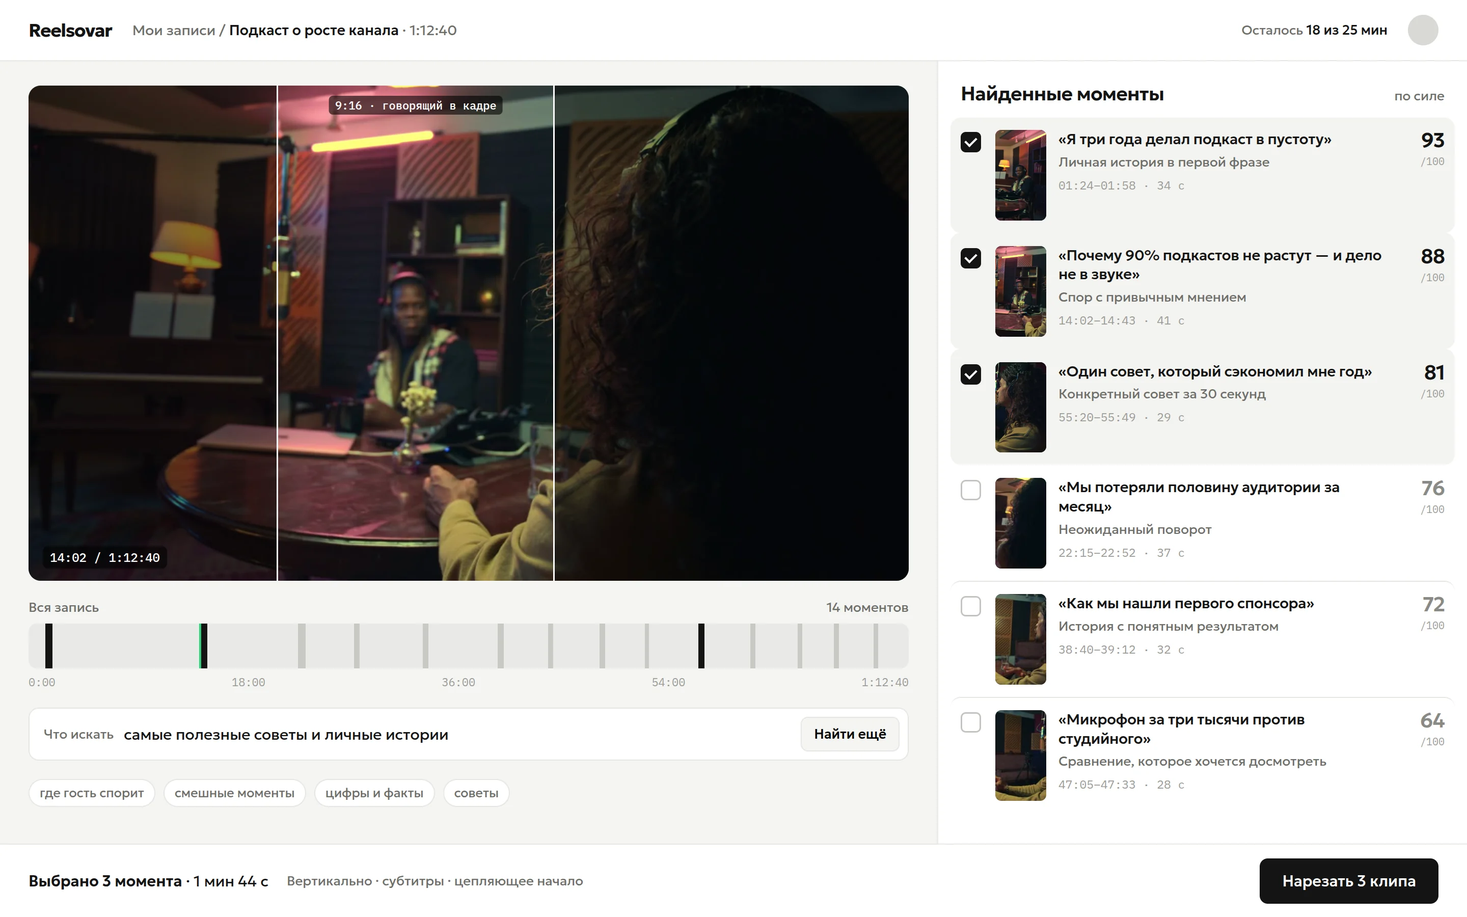
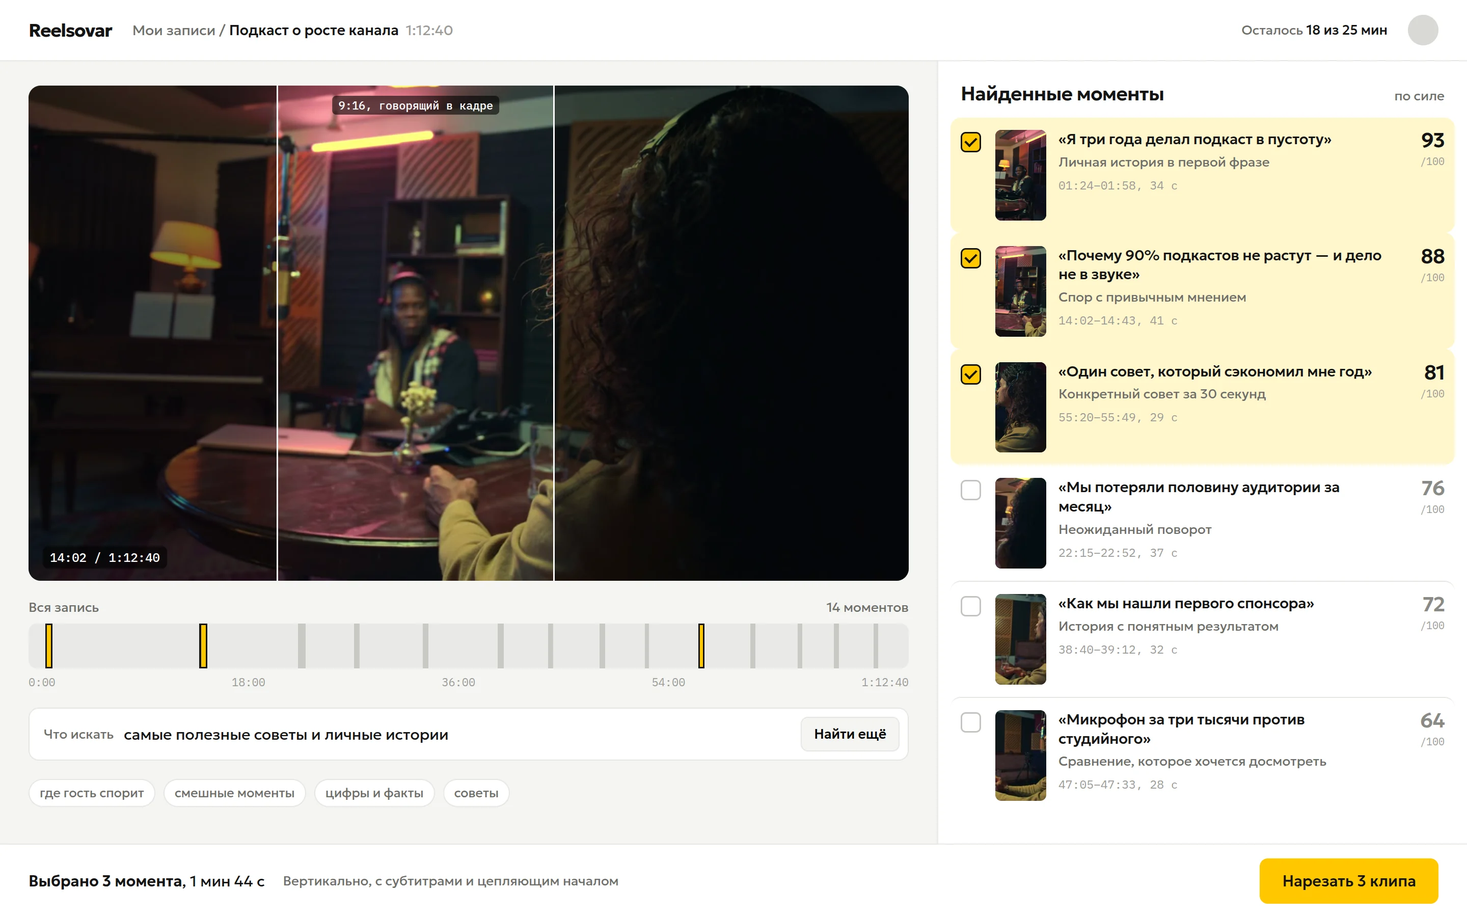
Антислоп: жёлтая метка момента, честные тарифы, свой знак
- Фирменный цвет #FFC700 вместо кислотно-зелёного: отмечает найденные
  моменты (плёнка, полоска записи, интерфейс) и главное действие.
- «Что вы получаете» — светлый блок вместо чёрной плашки.
- Тарифы: бесплатный вход отдельной строкой, ниже два способа платить
  (пакет и подписка) без метки «выгоднее всего».
- Выгоды без белых коробок — не повторяют карточки болей.
- Моно только для таймкодов, без разделителей «A · B».
- Знак-логотип: жёлтая метка разреза перед названием.

diff --git a/ui/moments.html b/ui/moments.html
@@ -5,7 +5,7 @@
 <title>Reelsovar — выбор моментов (макет интерфейса)</title>
 <link href="https://fonts.googleapis.com/css2?family=Geologica:wght@400;500;600;700&family=IBM+Plex+Mono:wght@400;500&display=swap" rel="stylesheet">
 <style>
-:root{--bg:#f5f5f3;--card:#fff;--ink:#141414;--mute:#6e6e6a;--soft:#9b9b96;--line:#e6e6e2;--sel:#141414;--hit:#2fd27a;
+:root{--bg:#f5f5f3;--card:#fff;--ink:#141414;--mute:#6e6e6a;--soft:#9b9b96;--line:#e6e6e2;--sel:#141414;--hit:#141414;--mark:#FFC700;
   --sans:"Geologica",system-ui,sans-serif;--mono:"IBM Plex Mono",ui-monospace,monospace}
 *{box-sizing:border-box;margin:0;padding:0}
 body{width:1440px;height:900px;overflow:hidden;background:var(--bg);font-family:var(--sans);color:var(--ink);-webkit-font-smoothing:antialiased}
@@ -25,7 +25,7 @@ body{width:1440px;height:900px;overflow:hidden;background:var(--bg);font-family:
 .tl-head{display:flex;justify-content:space-between;font-size:13px;color:var(--mute)}
 .tl{position:relative;height:44px;border-radius:8px;background:#e9e9e6;overflow:hidden}
 .tl i{position:absolute;top:0;bottom:0;background:#c9c9c4}
-.tl i.on{background:var(--ink)}
+.tl i.on{background:var(--mark);box-shadow:inset 0 0 0 1.5px var(--ink)}
 .tl .ph{position:absolute;top:-4px;bottom:-4px;width:2px;background:var(--hit);left:19.4%}
 .tl-axis{display:flex;justify-content:space-between;font:400 11px var(--mono);color:var(--soft);margin-top:-10px}
 .ask{display:flex;align-items:center;gap:10px;background:var(--card);border:1px solid var(--line);border-radius:10px;padding:8px 8px 8px 14px}
@@ -41,11 +41,11 @@ body{width:1440px;height:900px;overflow:hidden;background:var(--bg);font-family:
 .list{list-style:none;overflow:hidden;padding:0 12px}
 .m{display:grid;grid-template-columns:22px 50px 1fr 44px;gap:12px;align-items:start;padding:12px 10px;border-radius:10px}
 .m+.m{border-top:1px solid var(--line)}
-.m.sel{background:#f3f3f0}
+.m.sel{background:#FFF6CC}
 .m+.m.sel,.m.sel+.m{border-top-color:transparent}
 .cb{width:20px;height:20px;border-radius:5px;border:1.5px solid #c4c4bf;margin-top:2px;display:grid;place-items:center}
-.sel .cb{background:var(--sel);border-color:var(--sel)}
-.sel .cb::after{content:"";width:9px;height:5px;border:2px solid #fff;border-top:0;border-right:0;transform:rotate(-45deg) translate(1px,-1px)}
+.sel .cb{background:var(--mark);border-color:var(--ink)}
+.sel .cb::after{content:"";width:9px;height:5px;border:2px solid var(--ink);border-top:0;border-right:0;transform:rotate(-45deg) translate(1px,-1px)}
 .th{width:50px;aspect-ratio:9/16;border-radius:6px;overflow:hidden;background:#000}
 .th img{width:100%;height:100%;object-fit:cover;display:block}
 .q{font-weight:500;font-size:14.5px;line-height:1.3;letter-spacing:-.01em}
@@ -58,13 +58,13 @@ body{width:1440px;height:900px;overflow:hidden;background:var(--bg);font-family:
 .bar .sum{font-size:15px}.bar .sum b{font-weight:600}
 .bar .opt{font-size:13px;color:var(--mute)}
 .bar .sp{flex:1}
-.go{border:0;background:var(--ink);color:#fff;font:500 15px var(--sans);padding:13px 22px;border-radius:8px}
+.go{border:0;background:var(--mark);color:var(--ink);font-weight:600;font:500 15px var(--sans);padding:13px 22px;border-radius:8px}
 </style>
 </head>
 <body>
 <header class="top">
   <div class="logo">Reelsovar</div>
-  <div class="crumb">Мои записи / <b>Подкаст о росте канала</b> · 1:12:40</div>
+  <div class="crumb">Мои записи / <b>Подкаст о росте канала</b>&nbsp;&nbsp;<span style="color:var(--soft)">1:12:40</span></div>
   <div class="sp"></div>
   <div class="bal">Осталось <b>18 из 25 мин</b></div>
   <div class="ava"></div>
@@ -74,7 +74,7 @@ body{width:1440px;height:900px;overflow:hidden;background:var(--bg);font-family:
   <section class="left">
     <div class="player">
       <img src="../media/strip/h7.jpg" alt="">
-      <div class="win"><span>9:16 · говорящий в кадре</span></div>
+      <div class="win"><span>9:16, говорящий в кадре</span></div>
       <div class="tc">14:02 / 1:12:40</div>
     </div>
     <div>
@@ -101,24 +101,24 @@ body{width:1440px;height:900px;overflow:hidden;background:var(--bg);font-family:
     <div class="r-head"><h2>Найденные моменты</h2><span>по силе</span></div>
     <ul class="list">
       <li class="m sel"><i class="cb"></i><div class="th"><img src="../media/strip/h1.jpg" style="object-position:90% 50%" alt=""></div>
-        <div><div class="q">«Я три года делал подкаст в пустоту»</div><div class="why">Личная история в первой фразе</div><div class="t">01:24–01:58 · 34 с</div></div><div class="sc">93<small>/100</small></div></li>
+        <div><div class="q">«Я три года делал подкаст в пустоту»</div><div class="why">Личная история в первой фразе</div><div class="t">01:24–01:58, 34 с</div></div><div class="sc">93<small>/100</small></div></li>
       <li class="m sel"><i class="cb"></i><div class="th"><img src="../media/strip/h7.jpg" style="object-position:41% 50%" alt=""></div>
-        <div><div class="q">«Почему 90% подкастов не растут — и дело не в звуке»</div><div class="why">Спор с привычным мнением</div><div class="t">14:02–14:43 · 41 с</div></div><div class="sc">88<small>/100</small></div></li>
+        <div><div class="q">«Почему 90% подкастов не растут — и дело не в звуке»</div><div class="why">Спор с привычным мнением</div><div class="t">14:02–14:43, 41 с</div></div><div class="sc">88<small>/100</small></div></li>
       <li class="m sel"><i class="cb"></i><div class="th"><img src="../media/strip/h11.jpg" style="object-position:94% 50%" alt=""></div>
-        <div><div class="q">«Один совет, который сэкономил мне год»</div><div class="why">Конкретный совет за 30 секунд</div><div class="t">55:20–55:49 · 29 с</div></div><div class="sc">81<small>/100</small></div></li>
+        <div><div class="q">«Один совет, который сэкономил мне год»</div><div class="why">Конкретный совет за 30 секунд</div><div class="t">55:20–55:49, 29 с</div></div><div class="sc">81<small>/100</small></div></li>
       <li class="m"><i class="cb"></i><div class="th"><img src="../media/strip/s5.jpg" style="object-position:45% 50%" alt=""></div>
-        <div><div class="q">«Мы потеряли половину аудитории за месяц»</div><div class="why">Неожиданный поворот</div><div class="t">22:15–22:52 · 37 с</div></div><div class="sc">76<small>/100</small></div></li>
+        <div><div class="q">«Мы потеряли половину аудитории за месяц»</div><div class="why">Неожиданный поворот</div><div class="t">22:15–22:52, 37 с</div></div><div class="sc">76<small>/100</small></div></li>
       <li class="m"><i class="cb"></i><div class="th"><img src="../media/strip/s9.jpg" style="object-position:60% 50%" alt=""></div>
-        <div><div class="q">«Как мы нашли первого спонсора»</div><div class="why">История с понятным результатом</div><div class="t">38:40–39:12 · 32 с</div></div><div class="sc">72<small>/100</small></div></li>
+        <div><div class="q">«Как мы нашли первого спонсора»</div><div class="why">История с понятным результатом</div><div class="t">38:40–39:12, 32 с</div></div><div class="sc">72<small>/100</small></div></li>
       <li class="m"><i class="cb"></i><div class="th"><img src="../media/strip/s12.jpg" style="object-position:50% 50%" alt=""></div>
-        <div><div class="q">«Микрофон за три тысячи против студийного»</div><div class="why">Сравнение, которое хочется досмотреть</div><div class="t">47:05–47:33 · 28 с</div></div><div class="sc">64<small>/100</small></div></li>
+        <div><div class="q">«Микрофон за три тысячи против студийного»</div><div class="why">Сравнение, которое хочется досмотреть</div><div class="t">47:05–47:33, 28 с</div></div><div class="sc">64<small>/100</small></div></li>
     </ul>
   </aside>
 </div>
 
 <footer class="bar">
-  <div class="sum"><b>Выбрано 3 момента</b> · 1 мин 44 с</div>
-  <div class="opt">Вертикально · субтитры · цепляющее начало</div>
+  <div class="sum"><b>Выбрано 3 момента</b>, 1 мин 44 с</div>
+  <div class="opt">Вертикально, с субтитрами и цепляющим началом</div>
   <div class="sp"></div>
   <button class="go">Нарезать 3 клипа</button>
 </footer>

diff --git a/index.html b/index.html
@@ -5,15 +5,17 @@
 <meta name="viewport" content="width=device-width, initial-scale=1">
 <!-- До запуска продукта страница скрыта от поисковиков (SEO — в техдолге) -->
 <meta name="robots" content="noindex, nofollow">
+<!-- avoid-ai-design-ignore: K7 — :focus-visible задан в style.css -->
+<!-- avoid-ai-design-ignore: M6 — prefers-reduced-motion обрабатывается в app.js и style.css -->
 <title>Reelsovar — нарезка видео на шортс нейросетью</title>
 <link rel="preload" as="font" type="font/woff2" href="fonts/geologica-cyrillic.woff2" crossorigin>
 <link rel="preload" as="image" href="media/c2_poster.webp" fetchpriority="high">
-<link rel="stylesheet" href="style.css?v=23">
+<link rel="stylesheet" href="style.css?v=24">
 </head>
 <body>
 
 <header class="nav">
-  <a class="logo" href="#">Reelsovar</a>
+  <a class="logo" href="#"><i class="cutmark" aria-hidden="true"></i>Reelsovar</a>
   <nav class="nav-links" aria-label="Главное меню"><a href="#how">Как работает</a><a href="#offer">Тарифы</a><a class="login" href="#offer">Войти</a></nav>
 </header>
 
@@ -130,7 +132,7 @@
         <div class="tv-screen" id="tvScreen">
           <div class="tv-pic" id="tvPic">
             <video id="tvVideo" src="media/tv.mp4" poster="media/tv_poster.webp" muted loop playsinline autoplay preload="auto"></video>
-            <div class="osd" id="osd">Подкаст о росте канала · 1:12:40</div>
+            <div class="osd" id="osd">Подкаст о росте канала, 1:12:40</div>
           </div>
           <div class="pwr" id="pwr" aria-hidden="true"><i class="sh-t"></i><i class="sh-b"></i><i class="pwr-line"></i></div>
           <canvas id="tvSnap" aria-hidden="true"></canvas>
@@ -189,30 +191,31 @@
       </ul>
     </div>
   </div>
-  <div class="plans">
-    <div class="plan">
-      <h3>Бесплатно</h3>
-      <p class="for">Попробовать на своём видео</p>
-      <div class="price">0&nbsp;₽</div>
-      <p class="vol">25 минут видео</p>
-      <ul class="feat"><li>Поиск моментов по вашему запросу</li><li>Субтитры и цепляющее начало</li><li>Говорящий в кадре</li><li>С водяным знаком</li></ul>
-      <a class="btn ghost js-product" href="#">Начать бесплатно</a>
+  <!-- Бесплатно — это вход, а выбор — между двумя способами платить -->
+  <div class="start">
+    <div>
+      <h3>Начните бесплатно</h3>
+      <p>25 минут видео, клипы с водяным знаком. Карта не нужна.</p>
     </div>
+    <a class="btn js-product" href="#">Начать бесплатно</a>
+  </div>
+  <p class="incl">В любом варианте: поиск моментов по вашему запросу, субтитры и цепляющее начало, говорящий в кадре.</p>
+  <div class="plans two">
     <div class="plan">
       <h3>Пакет минут</h3>
       <p class="for">Нарезать пару записей без подписки</p>
       <div class="price">990&nbsp;₽<small>разово</small></div>
       <p class="vol">100 минут видео</p>
-      <ul class="feat"><li class="plus">Всё из бесплатного, плюс:</li><li>Без водяного знака</li><li>Платите только за выбранный отрезок</li></ul>
-      <a class="btn ghost js-product" href="#">Купить пакет</a>
+      <ul class="feat"><li>Без водяного знака</li><li>Платите только за выбранный отрезок</li></ul>
+      <a class="btn alt js-product" href="#">Купить пакет</a>
     </div>
-    <div class="plan main">
-      <h3>Подписка <em>выгоднее всего</em></h3>
+    <div class="plan">
+      <h3>Подписка</h3>
       <p class="for">Для тех, кто выкладывает клипы каждую неделю</p>
       <div class="price">2&nbsp;990&nbsp;₽<small>в месяц</small></div>
       <p class="vol">7,5 часа видео в месяц</p>
-      <ul class="feat"><li class="plus">Всё из пакета, плюс:</li><li>Самая низкая цена минуты</li><li>За год — 17&nbsp;900&nbsp;₽, в 2 раза дешевле</li></ul>
-      <a class="btn js-product" href="#">Оформить подписку</a>
+      <ul class="feat"><li>Без водяного знака</li><li>Самая низкая цена минуты</li><li>За год — 17&nbsp;900&nbsp;₽, в 2 раза дешевле</li></ul>
+      <a class="btn alt js-product" href="#">Оформить подписку</a>
     </div>
   </div>
   <p class="pay">Оплата картами РФ и через СБП. Подписку можно отменить в любой момент.</p>
@@ -242,6 +245,6 @@
   // Куда ведут все кнопки: адрес продукта (регистрация / загрузка видео)
   const PRODUCT_URL = "soon.html";   // TODO: адрес продукта, когда он появится
 </script>
-<script src="app.js?v=15"></script>
+<script src="app.js?v=16"></script>
 </body>
 </html>

diff --git a/style.css b/style.css
@@ -108,7 +108,7 @@
 }
 
 :root{
-  --bg:#f1f1ef; --ink:#121212; --mute:#5f5f5b; --line:#d6d6d2; --dark:#141414; --phos:#3dff8b;
+  --bg:#f1f1ef; --ink:#121212; --mute:#5f5f5b; --line:#d6d6d2; --dark:#141414; --phos:#FFC700; --mark:#FFC700; --mark-d:#E6B200;
   --sans:"Geologica",system-ui,sans-serif; --mono:"IBM Plex Mono",ui-monospace,monospace;
   --pad:clamp(16px,3.6vw,56px);
 }
@@ -157,7 +157,7 @@ h1 span{display:block}
 .glass{position:absolute;inset:0;pointer-events:none;border-radius:inherit;
   background:radial-gradient(110% 80% at 28% 12%,#ffffff2a,transparent 46%),repeating-linear-gradient(transparent 0 2px,#0000001a 2px 3px);
   box-shadow:inset 0 0 36px #000d}
-.osd{position:absolute;left:6%;top:7%;font:500 clamp(9px,.95vw,13px) var(--mono);color:var(--phos);text-shadow:0 0 8px #3dff8b88;letter-spacing:.04em}
+.osd{position:absolute;left:6%;top:7%;font:500 clamp(9px,.95vw,13px) var(--mono);color:var(--phos);letter-spacing:.04em}
 .flash{position:absolute;inset:0;background:#fff;opacity:0;pointer-events:none}
 
 .strip{position:absolute;left:0;top:0;z-index:3;background:var(--dark);overflow:hidden;visibility:hidden;will-change:transform,opacity}
@@ -477,3 +477,44 @@ h1 span{display:block}
 .btn:focus-visible,.drop button:focus-visible{outline-offset:4px}
 .drop:focus-within{border-color:var(--ink)}
 .cards:focus-visible{outline-offset:6px;border-radius:26px}
+
+/* ===== Фирменный цвет и антислоп (29.10) =====
+   Жёлтый маркер #FFC700 — «метка момента» и главное действие, больше нигде. */
+.logo{display:inline-flex;align-items:center;gap:7px}
+.cutmark{width:5px;height:1.05em;border-radius:2px;background:var(--mark);box-shadow:inset 0 0 0 1px #0000001a}
+
+.btn{background:var(--mark);color:var(--ink);font-weight:600;border-radius:10px;padding:16px 24px}
+.btn:hover{background:var(--mark-d);color:var(--ink)}
+.btn.alt,.btn.ghost{background:transparent;color:var(--ink);box-shadow:inset 0 0 0 1.5px var(--ink)}
+.btn.alt:hover,.btn.ghost:hover{background:var(--ink);color:#fff}
+.drop{border-radius:12px}
+.drop .btn{border-radius:8px}
+
+/* «Что вы получаете» — светлый блок с жёлтыми метками вместо чёрной плашки */
+.get{background:#fff;color:var(--ink)}
+.get h3{color:var(--mute)}
+.get li{border-top-color:var(--line)}
+
+/* Моно — только для таймкодов и времени */
+.receipt dd{font:500 14px var(--sans);font-variant-numeric:tabular-nums}
+.receipt .tot dd{font:600 17px var(--sans)}
+
+/* Полоска записи: 40 нужных секунд — жёлтая метка */
+.rec-hit{background:var(--mark);box-shadow:0 0 0 1.5px var(--ink);width:max(.92%,6px)}
+
+/* Выгоды: без белой коробки вокруг — картинка-плитка прямо на фоне (не повторяем карточки болей) */
+.cards.c4 .card{background:transparent;padding:0;border-radius:0}
+.cards.c4 .card .vis{background:#fff;height:clamp(210px,19vw,300px)}
+.cards.c4 .card .vis.dark{background:#1b1b1d}
+.cards.c4 .card h3,.cards.c4 .card p{padding:0 2px}
+.cmp i.us{background:var(--mark);box-shadow:inset 0 0 0 1.5px var(--ink)}
+
+/* Тарифы: вход бесплатно + два способа платить */
+.start{display:flex;align-items:center;justify-content:space-between;gap:24px 40px;flex-wrap:wrap;background:#fff;border-radius:20px;padding:clamp(22px,2.4vw,34px) clamp(22px,2.6vw,40px)}
+.start h3{font-weight:600;font-size:clamp(24px,2.2vw,34px);letter-spacing:-.03em}
+.start p{color:#2f2f2c;margin-top:6px;font-size:clamp(15px,1.15vw,18px)}
+.incl{margin:22px 0 8px;color:#2f2f2c;line-height:1.5;max-width:48em}
+.plans.two{grid-template-columns:repeat(2,minmax(0,1fr));margin-top:28px}
+.plans.two .plan{padding-top:28px}
+.feat li::before{background:var(--mark);height:8px;width:8px;border-radius:2px;top:11px;box-shadow:0 0 0 1px #00000022}
+@media (max-width:820px){.plans.two{grid-template-columns:1fr}}

diff --git a/soon.html b/soon.html
@@ -4,9 +4,10 @@
 <meta charset="utf-8">
 <meta name="viewport" content="width=device-width, initial-scale=1">
 <meta name="robots" content="noindex, nofollow">
+<!-- avoid-ai-design-ignore: K7 — :focus-visible задан в style.css -->
 <title>Reelsovar скоро откроется</title>
 <link rel="preload" as="font" type="font/woff2" href="fonts/geologica-cyrillic.woff2" crossorigin>
-<link rel="stylesheet" href="style.css?v=23">
+<link rel="stylesheet" href="style.css?v=24">
 <style>
   .soon{min-height:100vh;min-height:100svh;display:flex;flex-direction:column;justify-content:center;padding:64px var(--pad)}
   .soon h1{max-width:12em}
@@ -15,11 +16,11 @@
 </style>
 </head>
 <body>
-<header class="nav"><a class="logo" href="./">Reelsovar</a></header>
+<header class="nav"><a class="logo" href="./"><i class="cutmark" aria-hidden="true"></i>Reelsovar</a></header>
 <main class="soon">
   <h1>Reelsovar скоро откроется.</h1>
   <p>Мы готовим запуск — загляните чуть позже.</p>
-  <a class="btn ghost" href="./">Вернуться на главную</a>
+  <a class="btn alt" href="./">Вернуться на главную</a>
 </main>
 </body>
 </html>

diff --git a/app.js b/app.js
@@ -126,7 +126,7 @@ function build() {
     const ar = c.width / c.height, sw = Math.min(vw, vh * ar), sh = sw / ar;   // как object-fit: cover
     ctx.drawImage(v, (vw - sw) / 2, (vh - sh) / 2, sw, sh, 0, 0, c.width, c.height);
   };
-  let STEP_T = [0, 99, 99, 99], OSD_T = [[0, 'Подкаст о росте канала · 1:12:40']], END_T = 99, OFF_T = 99, PLAY_T = 99;
+  let STEP_T = [0, 99, 99, 99], OSD_T = [[0, 'Подкаст о росте канала, 1:12:40']], END_T = 99, OFF_T = 99, PLAY_T = 99;
   const osd = $('#osd'), tvVideo = $('#tvVideo');
   tl = gsap.timeline({
     defaults: { ease: 'none' },
@@ -242,7 +242,7 @@ function build() {
   tl.to({}, { duration: .6 });
 
   STEP_T = [0, T2, T3, T4];
-  OSD_T = [[0, 'Подкаст о росте канала · 1:12:40'], [T2, 'Ищу самые сильные моменты…'], [T3, '']];
+  OSD_T = [[0, 'Подкаст о росте канала, 1:12:40'], [T2, 'Ищу самые сильные моменты…'], [T3, '']];
   END_T = E + .5; OFF_T = T3 + .2; PLAY_T = M + .9; SNAP_AT = SNAP_T - .02;
 }
 
